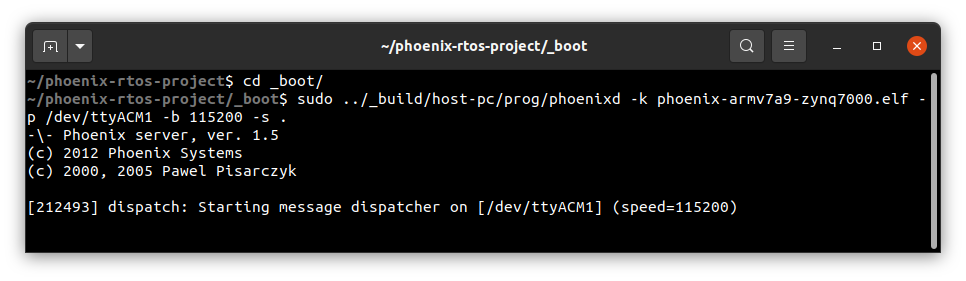
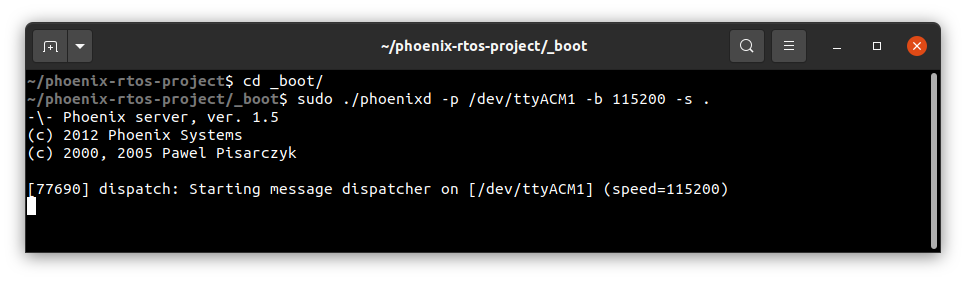
doc: update zynq7000 quickstarts and buiding chapter
DONE: PD-269

Changed region(s): [[0.0311, 0.6548, 0.7764, 0.7687], [0.0311, 0.3986, 0.3106, 0.6263], [0.3416, 0.3132, 0.9627, 0.3986]]

diff --git a/quickstart/armv7a9-zynq7000-zedboard.md b/quickstart/armv7a9-zynq7000-zedboard.md
@@ -1,13 +1,13 @@
-# Running system on `armv7a9-zynq7000` (Xilinx Zynq-7000) on development board
+# Running system on `armv7a9-zynq7000-zedboard` (Xilinx Zynq-7000, Zedboard development board)
 
-These instructions describe how to run a Phoenix-RTOS system image for `armv7a9-zynq7000` target architecture using an evaluation board.
-Note that, the build artifacts, including the system image, should be first provided in the `_boot` directory. If you haven't run the `build.sh` script yet, run it for `armv7a9-zynq7000` target.
+These instructions describe how to run a Phoenix-RTOS system image for `armv7a9-zynq7000-zedboard` target architecture.
+Note that, the build artifacts, including the system image, should be first provided in the `_boot` directory. If you haven't run the `build.sh` script yet, run it for `armv7a9-zynq7000-zedboard` target.
 
 See [how to build the Phoenix-RTOS system image](../building/README.md).
 
 ## Preparing the board
 
-- Firstly, you should copy the disk image `phoenix-armv7a9-zynq7000.disk` from the `_boot` directory to the SD card and rename it to `BOOT.bin`.
+- Firstly, you should copy the disk image `phoenix-armv7a9-zynq7000-zedboard.disk` from the `_boot` directory to the SD card and rename it to `BOOT.bin`.
 
 - Then, insert the SD card into the board.
 
@@ -73,9 +73,9 @@ If you are flashing the board a second time and some older Phoenix-RTOS image is
 
 <img src="_images/zynq7000-ram-start-2.png" width="600px">
 
-As you can see, the older Phoenix-RTOS image is now launched, but we need to run plo (Phoenix-RTOS loader). To do that, you should press any button, for example, `enter` within 1 second after restart (using `PS-RST`):
+As you can see, plo (Phoenix-RTOS loader) is launched. You can press `enter` to see the prompt. 
 
-<img src="_images/zynq7000-plo.png" width="600px">
+If You need, You can run Phoenix-RTOS from RAM memory using `go!` command here, but if You want to flash the system image please follow the next steps.
 
 ### Copying flash image using PHFS (phoenixd)
 
@@ -93,7 +93,7 @@ cd _boot/
 ```
 
 ```bash
-sudo ./phoenixd -k phoenix-armv7a9-zynq7000.elf -p /dev/ttyACM1 -b 115200 -s .
+sudo ./phoenixd -p /dev/ttyACM1 -b 115200 -s .
 ```
 
 <img src="_images/zynq7000-phoenixd.png" width="600px">
@@ -101,7 +101,7 @@ sudo ./phoenixd -k phoenix-armv7a9-zynq7000.elf -p /dev/ttyACM1 -b 115200 -s .
 To start copying the file, write the following command in the console with plo interface:
 
 ```bash
-copy usb0 phoenix-armv7a9-zynq7000.disk flash0 0x0 0x0
+copy usb0 phoenix-armv7a9-zynq7000-zedboard.disk flash0 0x0 0x0
 ```
 
 <img src="_images/zynq7000-plo-copy.png" width="600px">

diff --git a/quickstart/armv7a9-zynq7000.md b/quickstart/armv7a9-zynq7000.md
@@ -7,11 +7,11 @@ This version is designed for Xilinx Zynq-7000 SoC (System on Chip) with ARM Cort
 The easiest way to start programming hardware targets using Phoenix-RTOS is to get some of the evaluation boards with a specified target processor or microcontroller. In this case [ZedBoard](https://www.xilinx.com/products/boards-and-kits/1-8dyf-11.html) is the example of a board with the `zynq7000` SoC, where the default configuration of peripherals allows to run Phoenix-RTOS.
 The next steps for a development board are described below.
 
-- [Running system on `armv7a9-zynq7000` using development board](armv7a9-zynq7000-devboard.md)
+- [Running system on `armv7a9-zynq7000-zedboard`](armv7a9-zynq7000-zedboard.md)
 
 If you don't have one, you can check the running system for this target architecture on an emulator and follow the steps from the site below.
 
-- [Running system on `armv7a9-zynq7000` using emulator](armv7a9-zynq7000-emu.md)
+- [Running system on `armv7a9-zynq7000-qemu`](armv7a9-zynq7000-qemu.md)
 
 ## See also
 

diff --git a/quickstart/armv7a9-zynq7000-qemu.md b/quickstart/armv7a9-zynq7000-qemu.md
@@ -1,7 +1,7 @@
-# Running system on `armv7a9-zynq7000` (Xilinx Zynq-7000) on emulator
+# Running system on `armv7a9-zynq7000-qemu` (Xilinx Zynq-7000, qemu emulator)
 
-These instructions describe how to run a Phoenix-RTOS system image for the `armv7a9-zynq7000` target architecture using docker and qemu.
-Note that, the build artifacts, including the system image, should be first provided in the `_boot` directory. If you haven't run the `build.sh` script yet, run it for `armv7a9-zynq7000` target.
+These instructions describe how to run a Phoenix-RTOS system image for the `armv7a9-zynq7000-qemu` target architecture using docker.
+Note that, the build artifacts, including the system image, should be first provided in the `_boot` directory. If you haven't run the `build.sh` script yet, run it for `armv7a9-zynq7000-qemu` target.
 
 See [how to build the Phoenix-RTOS system image](../building/README.md).
 

diff --git a/building/README.md b/building/README.md
@@ -38,6 +38,8 @@ The Phoenix-RTOS reference project supports the following target platforms:
 * ia32-generic
 * riscv64-spike
 * riscv64-virt
+* armv7a9-zynq7000-qemu
+* armv7a9-zynq7000-zedboard
 
 To get the list of valid targets the `build.sh` script should be launched with an empty `TARGET` variable, eg:
 
